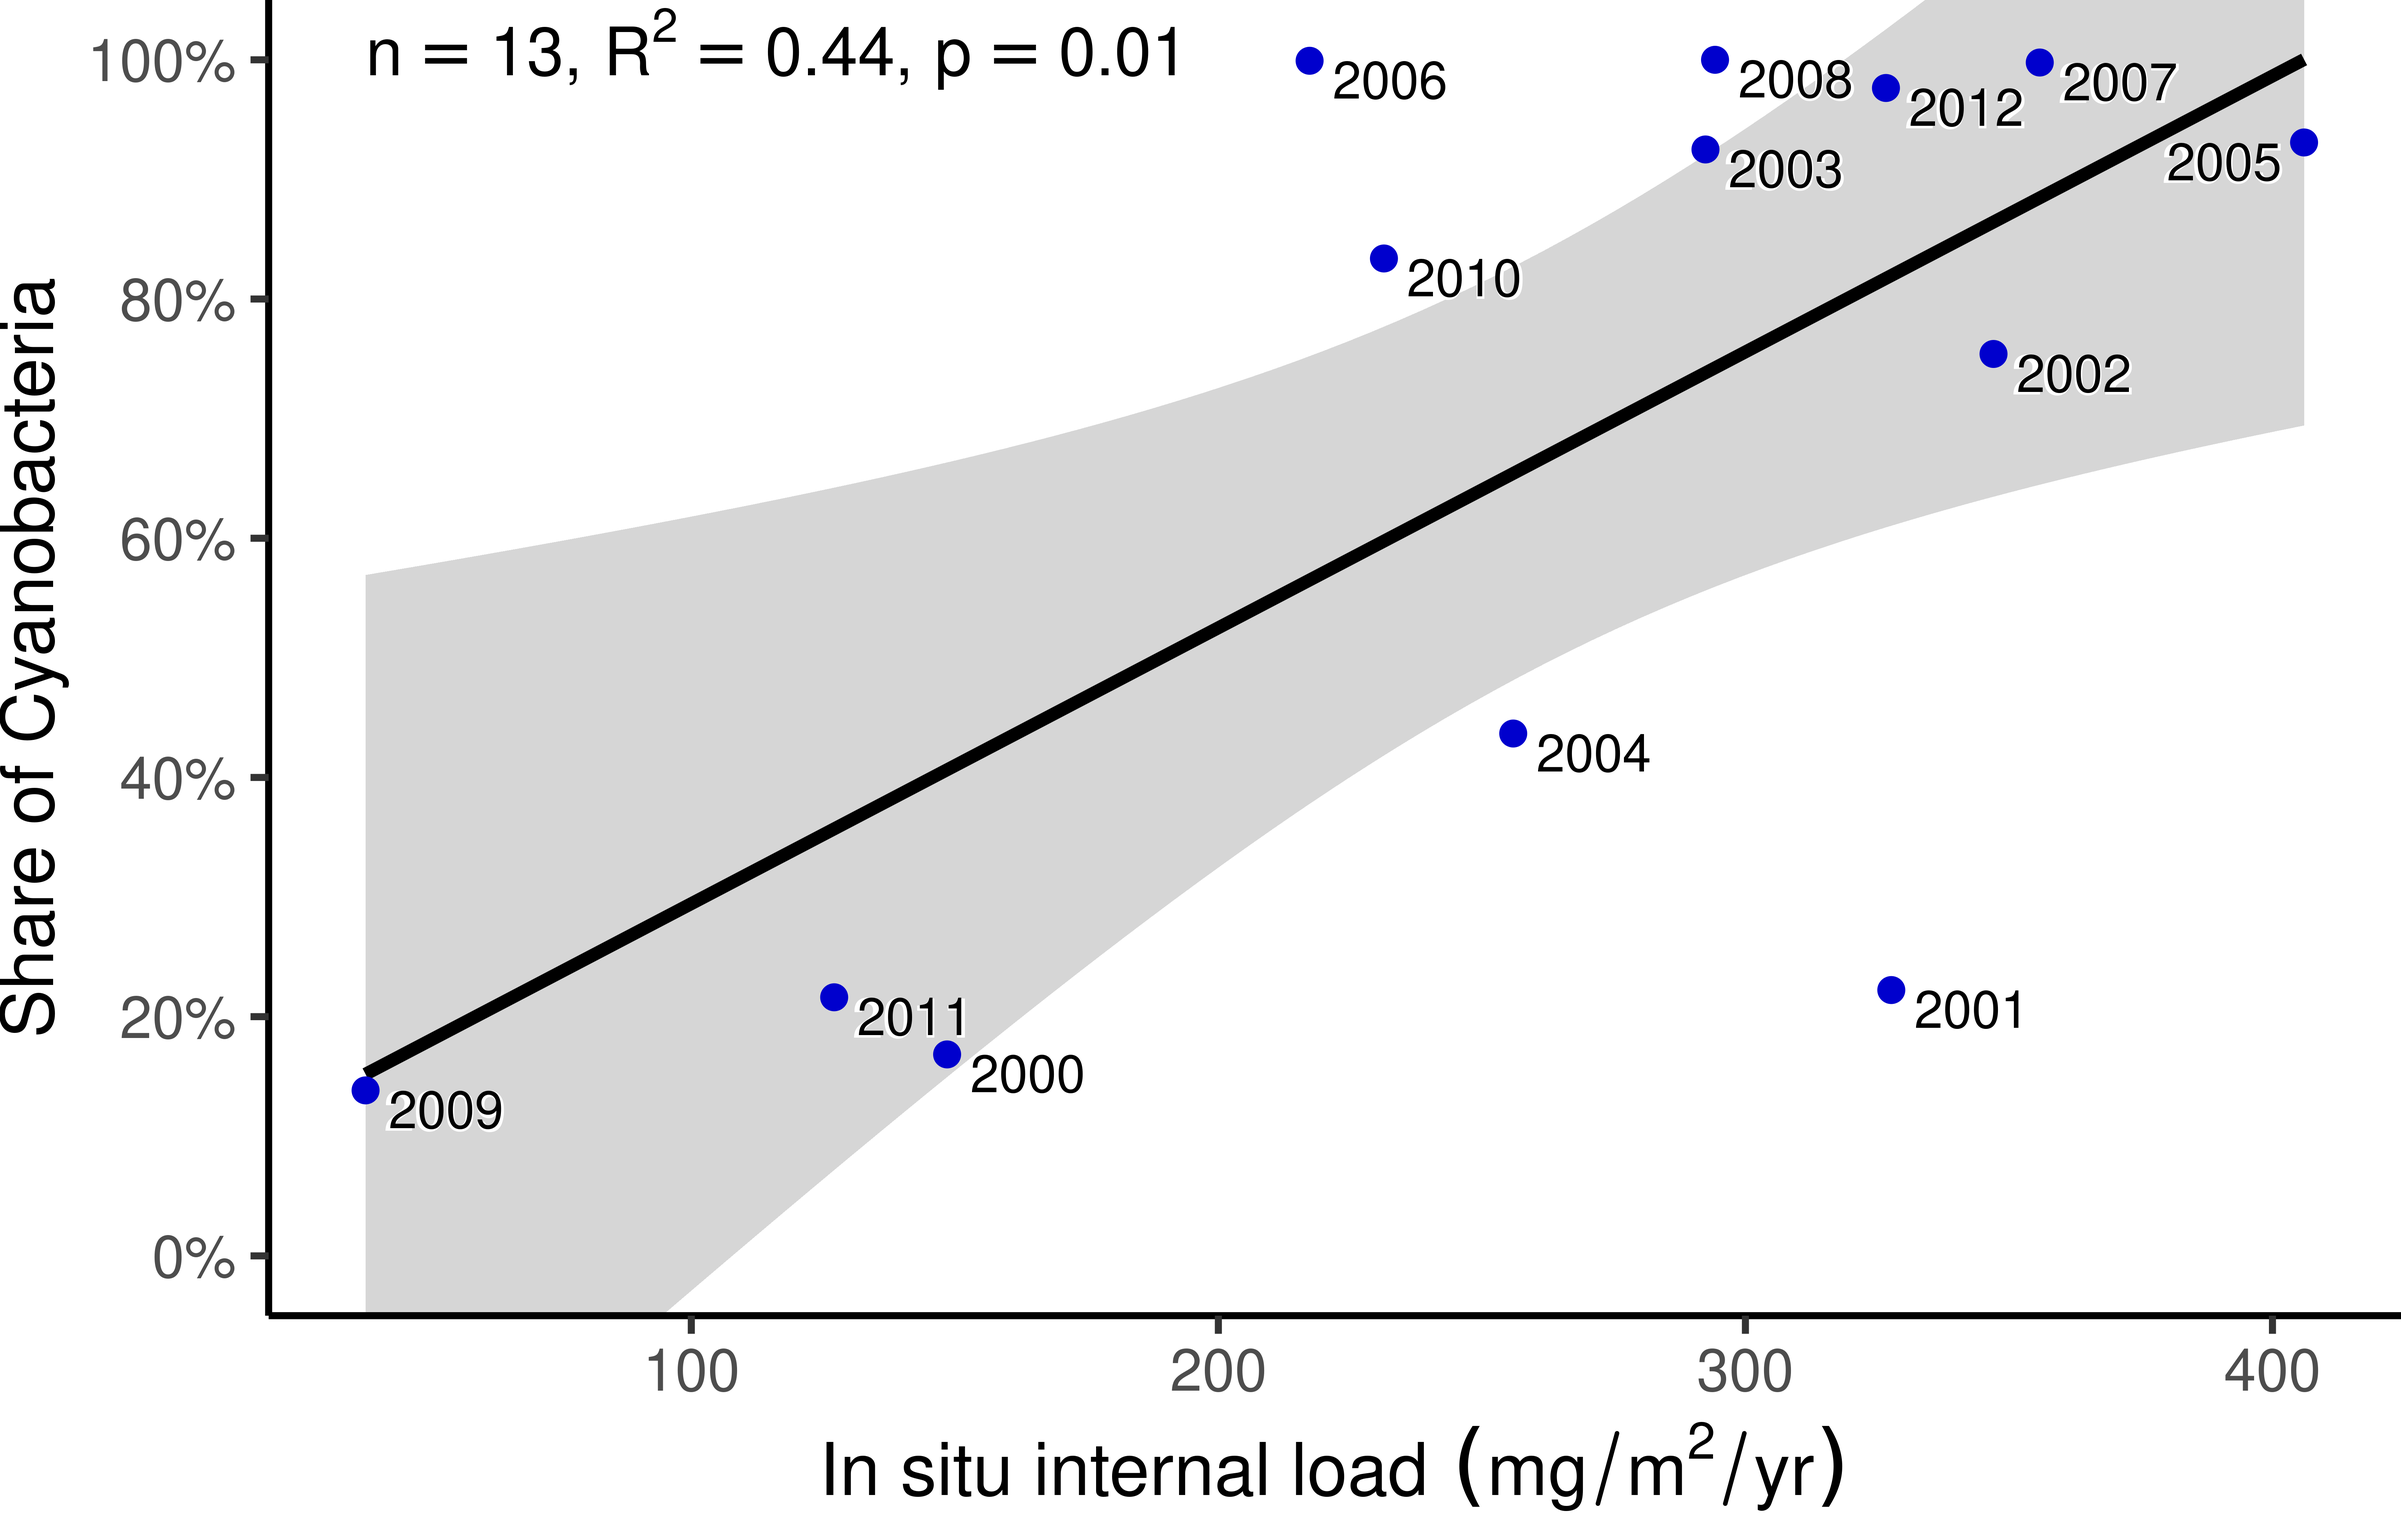
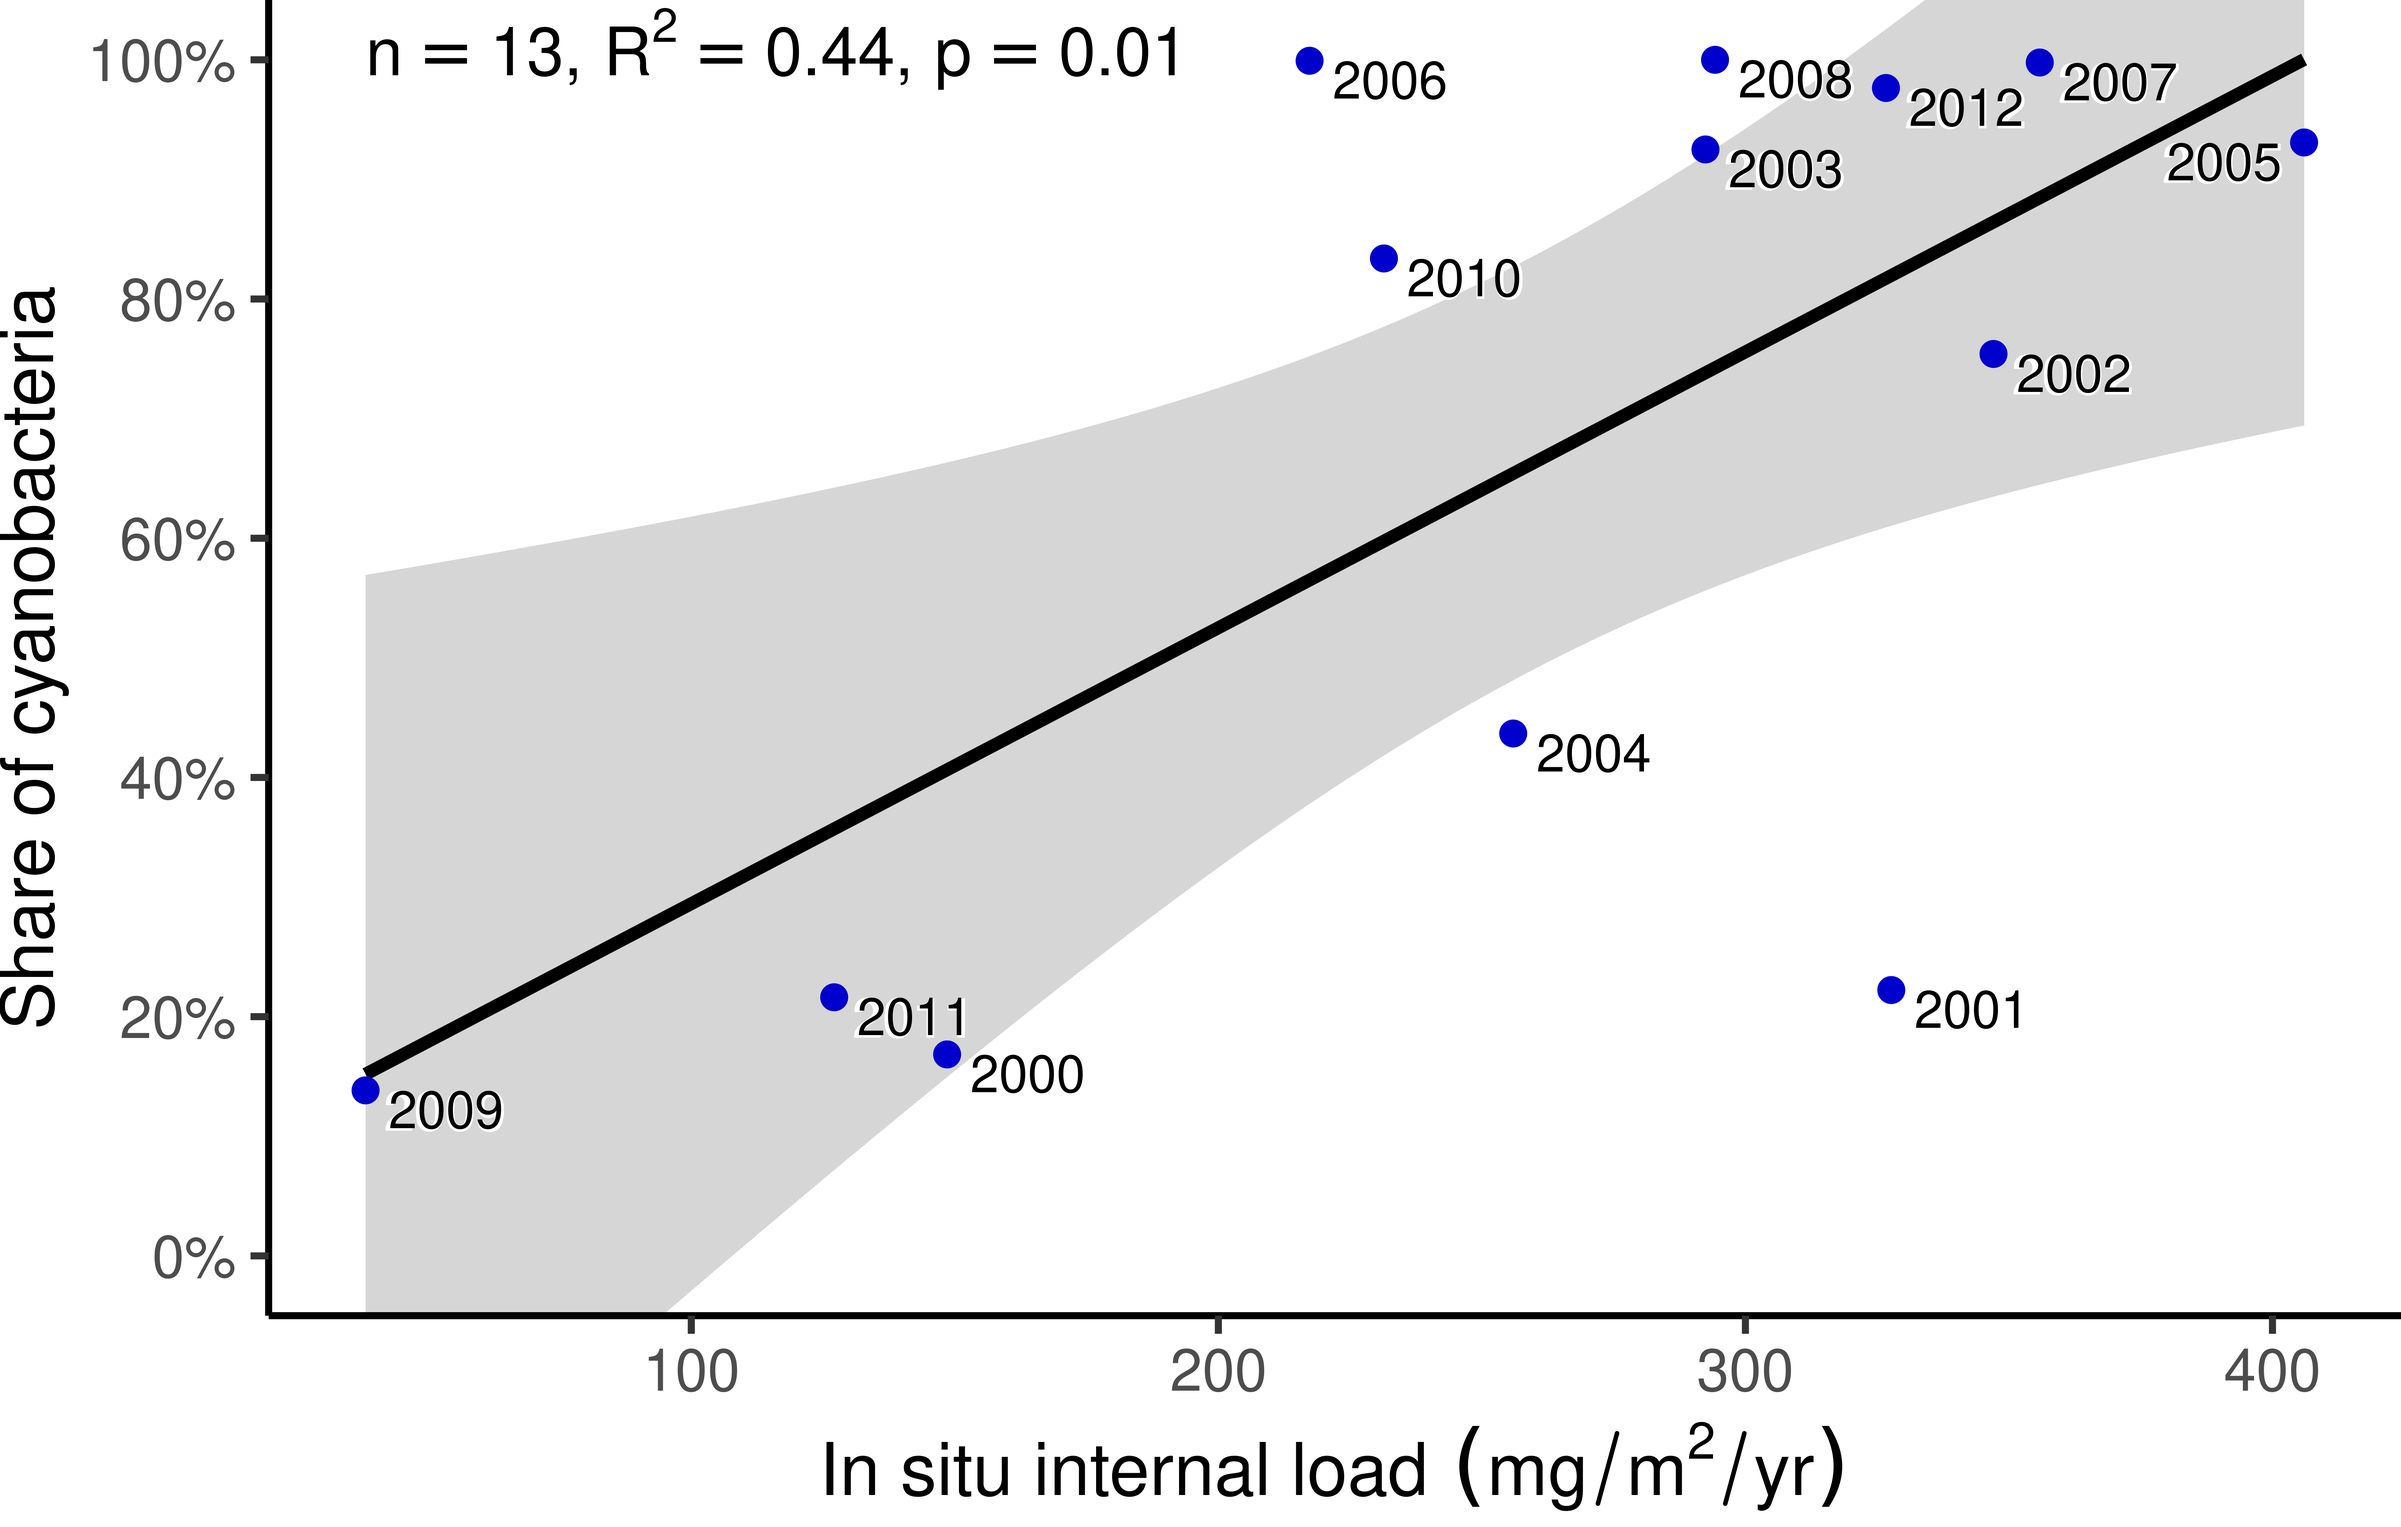
Tweaks for mom

Changed region(s): [[0.0, 0.1871, 0.0312, 0.6862]]

diff --git a/brownlee.html b/brownlee.html
@@ -126,7 +126,7 @@ pre > code.sourceCode > span > a:first-child::before { text-decoration: underlin
 <span id="cb2-2"><a href="#cb2-2" aria-hidden="true" tabindex="-1"></a>g0 <span class="ot">&lt;-</span> <span class="fu">ggplot</span>(d, <span class="fu">aes</span>(<span class="at">x =</span> rm, <span class="at">colour =</span> year, <span class="at">shape =</span> year, <span class="at">fill =</span> year)) <span class="sc">+</span></span>
 <span id="cb2-3"><a href="#cb2-3" aria-hidden="true" tabindex="-1"></a>  <span class="fu">theme_classic</span>(<span class="at">base_size =</span> <span class="dv">12</span>) <span class="sc">+</span></span>
 <span id="cb2-4"><a href="#cb2-4" aria-hidden="true" tabindex="-1"></a>  <span class="fu">theme</span>(<span class="at">plot.margin =</span> <span class="fu">margin</span>(), <span class="at">plot.tag.position =</span> <span class="fu">c</span>(<span class="st">"topleft"</span>)) <span class="sc">+</span></span>
-<span id="cb2-5"><a href="#cb2-5" aria-hidden="true" tabindex="-1"></a>  <span class="fu">scale_x_reverse</span>(<span class="at">name =</span> <span class="st">"Location (RM)"</span>, <span class="at">limits =</span> <span class="fu">c</span>(<span class="dv">345</span>, <span class="dv">283</span>), <span class="at">breaks =</span> <span class="fu">seq</span>(<span class="dv">340</span>, <span class="dv">290</span>, <span class="sc">-</span><span class="dv">10</span>)) <span class="sc">+</span></span>
+<span id="cb2-5"><a href="#cb2-5" aria-hidden="true" tabindex="-1"></a>  <span class="fu">scale_x_reverse</span>(<span class="at">name =</span> <span class="st">"Location (River mile)"</span>, <span class="at">limits =</span> <span class="fu">c</span>(<span class="dv">345</span>, <span class="dv">283</span>), <span class="at">breaks =</span> <span class="fu">seq</span>(<span class="dv">340</span>, <span class="dv">290</span>, <span class="sc">-</span><span class="dv">10</span>)) <span class="sc">+</span></span>
 <span id="cb2-6"><a href="#cb2-6" aria-hidden="true" tabindex="-1"></a>  <span class="fu">scale_colour_manual</span>(<span class="at">name =</span> <span class="st">""</span>, <span class="at">values =</span> <span class="fu">c</span>(<span class="st">"1999"</span> <span class="ot">=</span> blu, <span class="st">"2000"</span> <span class="ot">=</span> <span class="st">"deepskyblue"</span>), <span class="at">aesthetics =</span> <span class="fu">c</span>(<span class="st">"fill"</span>, <span class="st">"colour"</span>)) <span class="sc">+</span></span>
 <span id="cb2-7"><a href="#cb2-7" aria-hidden="true" tabindex="-1"></a>  <span class="fu">scale_shape_manual</span>(<span class="at">name =</span> <span class="st">""</span>, <span class="at">values =</span> <span class="fu">c</span>(<span class="st">"1999"</span> <span class="ot">=</span> <span class="dv">21</span>, <span class="st">"2000"</span> <span class="ot">=</span> <span class="dv">22</span>))</span>
 <span id="cb2-8"><a href="#cb2-8" aria-hidden="true" tabindex="-1"></a></span>
@@ -181,8 +181,10 @@ pre > code.sourceCode > span > a:first-child::before { text-decoration: underlin
 <span id="cb6-41"><a href="#cb6-41" aria-hidden="true" tabindex="-1"></a>  <span class="fu">scale_y_continuous</span>(<span class="at">limits =</span> <span class="fu">c</span>(<span class="dv">0</span>, <span class="dv">50</span>), <span class="at">name =</span> <span class="fu">bquote</span>(<span class="st">"Chlorophyl"</span><span class="sc">~</span>(mu<span class="sc">*</span>g<span class="sc">/</span>L)))</span>
 <span id="cb6-42"><a href="#cb6-42" aria-hidden="true" tabindex="-1"></a></span>
 <span id="cb6-43"><a href="#cb6-43" aria-hidden="true" tabindex="-1"></a></span>
-<span id="cb6-44"><a href="#cb6-44" aria-hidden="true" tabindex="-1"></a>g00 <span class="sc">/</span> g3 <span class="sc">/</span> g1 <span class="sc">/</span> g2 <span class="sc">+</span> <span class="fu">plot_annotation</span>(<span class="at">tag_levels =</span> <span class="st">"A"</span>) <span class="sc">+</span></span>
-<span id="cb6-45"><a href="#cb6-45" aria-hidden="true" tabindex="-1"></a>  <span class="fu">plot_layout</span>(<span class="at">heights =</span> <span class="fu">c</span>(<span class="dv">1</span>, <span class="dv">3</span>, <span class="dv">3</span>, <span class="dv">3</span>))</span></code><button title="Copy to Clipboard" class="code-copy-button"><i class="bi"></i></button></pre></div>
+<span id="cb6-44"><a href="#cb6-44" aria-hidden="true" tabindex="-1"></a>gg <span class="ot">&lt;-</span> g00 <span class="sc">/</span> g3 <span class="sc">/</span> g1 <span class="sc">/</span> g2 <span class="sc">+</span> <span class="fu">plot_annotation</span>(<span class="at">tag_levels =</span> <span class="st">"A"</span>) <span class="sc">+</span></span>
+<span id="cb6-45"><a href="#cb6-45" aria-hidden="true" tabindex="-1"></a>  <span class="fu">plot_layout</span>(<span class="at">heights =</span> <span class="fu">c</span>(<span class="dv">1</span>, <span class="dv">3</span>, <span class="dv">3</span>, <span class="dv">3</span>))</span>
+<span id="cb6-46"><a href="#cb6-46" aria-hidden="true" tabindex="-1"></a></span>
+<span id="cb6-47"><a href="#cb6-47" aria-hidden="true" tabindex="-1"></a>gg</span></code><button title="Copy to Clipboard" class="code-copy-button"><i class="bi"></i></button></pre></div>
 <div class="cell-output cell-output-stderr">
 <pre><code>Warning: No shared levels found between `names(values)` of the manual scale and the
 data's fill and colour values.
@@ -196,7 +198,7 @@ data's shape values.</code></pre>
 <div class="cell-output-display">
 <div>
 <figure class="figure">
-<p><img src="brownlee_files/figure-html/unnamed-chunk-2-1.png" class="img-fluid figure-img" style="width:50.0%"></p>
+<p><img src="brownlee_files/figure-html/unnamed-chunk-2-1.png" class="img-fluid figure-img" style="width:80.0%"></p>
 </figure>
 </div>
 </div>

diff --git a/winnipeg.html b/winnipeg.html
@@ -231,7 +231,7 @@ Scaled residual values: 0.052 0.228 0.776 0.616 0.576 0.936 0.132 0.84 0.492 0.7
 <span id="cb11-11"><a href="#cb11-11" aria-hidden="true" tabindex="-1"></a>            <span class="at">size =</span> <span class="fl">3.2</span>, <span class="at">colour =</span> <span class="st">"white"</span>, <span class="at">fontface =</span> <span class="st">"bold"</span>, </span>
 <span id="cb11-12"><a href="#cb11-12" aria-hidden="true" tabindex="-1"></a>            <span class="at">vjust =</span> <span class="dv">1</span>, <span class="at">hjust =</span> <span class="sc">-</span><span class="fl">0.15</span>) <span class="sc">+</span></span>
 <span id="cb11-13"><a href="#cb11-13" aria-hidden="true" tabindex="-1"></a>  <span class="fu">geom_text</span>(<span class="fu">aes</span>(<span class="at">label =</span> year, <span class="at">x =</span> x), <span class="at">size =</span> <span class="dv">3</span>, <span class="at">vjust =</span> <span class="dv">1</span>, <span class="at">hjust =</span> <span class="sc">-</span><span class="fl">0.2</span>) <span class="sc">+</span></span>
-<span id="cb11-14"><a href="#cb11-14" aria-hidden="true" tabindex="-1"></a>  <span class="fu">scale_y_continuous</span>(<span class="at">name =</span> <span class="st">"Share of Cyanobacteria"</span>, <span class="at">labels =</span> scales<span class="sc">::</span>percent,</span>
+<span id="cb11-14"><a href="#cb11-14" aria-hidden="true" tabindex="-1"></a>  <span class="fu">scale_y_continuous</span>(<span class="at">name =</span> <span class="st">"Share of cyanobacteria"</span>, <span class="at">labels =</span> scales<span class="sc">::</span>percent,</span>
 <span id="cb11-15"><a href="#cb11-15" aria-hidden="true" tabindex="-1"></a>                     <span class="at">breaks =</span> <span class="fu">seq</span>(<span class="dv">0</span>, <span class="dv">1</span>, <span class="fl">0.2</span>)) <span class="sc">+</span></span>
 <span id="cb11-16"><a href="#cb11-16" aria-hidden="true" tabindex="-1"></a>  <span class="fu">coord_cartesian</span>(<span class="at">ylim =</span> <span class="fu">c</span>(<span class="dv">0</span>, <span class="dv">1</span>)) <span class="sc">+</span></span>
 <span id="cb11-17"><a href="#cb11-17" aria-hidden="true" tabindex="-1"></a>  <span class="fu">annotate</span>(<span class="at">geom =</span> <span class="st">"text"</span>, <span class="at">x =</span> <span class="fu">min</span>(d1<span class="sc">$</span>int_load), <span class="at">y =</span> <span class="cn">Inf</span>, <span class="at">hjust =</span> <span class="dv">0</span>, <span class="at">vjust =</span> <span class="fl">1.1</span>, </span>
